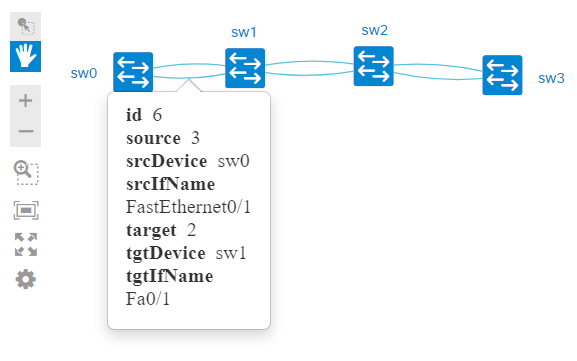
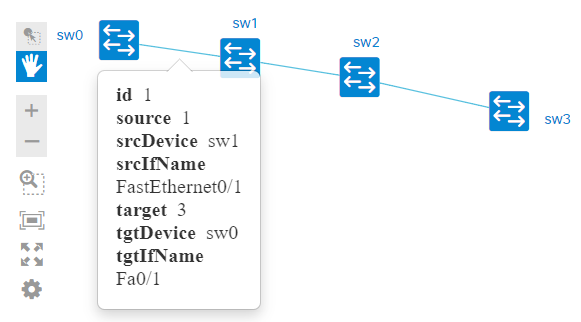
delete duplicate links

diff --git a/topology.js b/topology.js
@@ -1,44 +1,17 @@
 var topologyData = {
 	"links": [
 		{
-			"id": 1,
+			"id": 0,
 			"source": 0,
 			"srcDevice": "sw3",
 			"srcIfName": "FastEthernet0/1",
-			"target": 1,
-			"tgtDevice": "sw2",
-			"tgtIfName": "Fa0/2"
-		},
-		{
-			"id": 2,
-			"source": 1,
-			"srcDevice": "sw2",
-			"srcIfName": "FastEthernet0/1",
 			"target": 2,
-			"tgtDevice": "sw1",
+			"tgtDevice": "sw2",
 			"tgtIfName": "Fa0/2"
 		},
 		{
-			"id": 3,
+			"id": 1,
 			"source": 1,
-			"srcDevice": "sw2",
-			"srcIfName": "FastEthernet0/2",
-			"target": 0,
-			"tgtDevice": "sw3",
-			"tgtIfName": "Fa0/1"
-		},
-		{
-			"id": 4,
-			"source": 2,
-			"srcDevice": "sw1",
-			"srcIfName": "FastEthernet0/2",
-			"target": 1,
-			"tgtDevice": "sw2",
-			"tgtIfName": "Fa0/1"
-		},
-		{
-			"id": 5,
-			"source": 2,
 			"srcDevice": "sw1",
 			"srcIfName": "FastEthernet0/1",
 			"target": 3,
@@ -46,12 +19,12 @@ var topologyData = {
 			"tgtIfName": "Fa0/1"
 		},
 		{
-			"id": 6,
-			"source": 3,
-			"srcDevice": "sw0",
-			"srcIfName": "FastEthernet0/1",
+			"id": 2,
+			"source": 1,
+			"srcDevice": "sw1",
+			"srcIfName": "FastEthernet0/2",
 			"target": 2,
-			"tgtDevice": "sw1",
+			"tgtDevice": "sw2",
 			"tgtIfName": "Fa0/1"
 		}
 	],
@@ -64,22 +37,12 @@ var topologyData = {
 		{
 			"icon": "switch",
 			"id": 1,
-			"name": "sw2"
-		},
-		{
-			"icon": "switch",
-			"id": 1,
-			"name": "sw2"
-		},
-		{
-			"icon": "switch",
-			"id": 2,
 			"name": "sw1"
 		},
 		{
 			"icon": "switch",
 			"id": 2,
-			"name": "sw1"
+			"name": "sw2"
 		},
 		{
 			"icon": "switch",

diff --git a/main.go b/main.go
@@ -44,14 +44,29 @@ func run() {
 	var ls linksStructJson
 	var ns nodesStructJson
 	for indDevice, valDevice := range d {
+		ns.Nodes = append(ns.Nodes, nodesStruct{
+			Icon: "switch",
+			Id:   indDevice,
+			Name: d[indDevice].Hostname,
+		})
 		for interfDevice, macDevice := range valDevice.Interfaces {
 			for otherIndDevice, otherValDevice := range d {
 				if otherIndDevice == indDevice {
 					continue
 				}
+			LOUT:
 				for macFromTableOtherDevice, intFromTableOtherDevice := range otherValDevice.MacTable {
 					if macFromTableOtherDevice == macDevice {
-						i += 1
+						// Проверяем на дублирование линков
+						if i == 0 {
+							goto L1
+						}
+						for j := 0; j < i; j++ {
+							if ls.Links[j].Source == otherIndDevice && ls.Links[j].Target == indDevice {
+								continue LOUT
+							}
+						}
+					L1:
 						ls.Links = append(ls.Links, linksStruct{
 							Id:        i,
 							Source:    indDevice,
@@ -61,11 +76,7 @@ func run() {
 							TgtDevice: d[otherIndDevice].Hostname,
 							TgtIfName: intFromTableOtherDevice,
 						})
-						ns.Nodes = append(ns.Nodes, nodesStruct{
-							Icon: "switch",
-							Id:   indDevice,
-							Name: d[indDevice].Hostname,
-						})
+						i += 1
 					}
 				}
 			}
